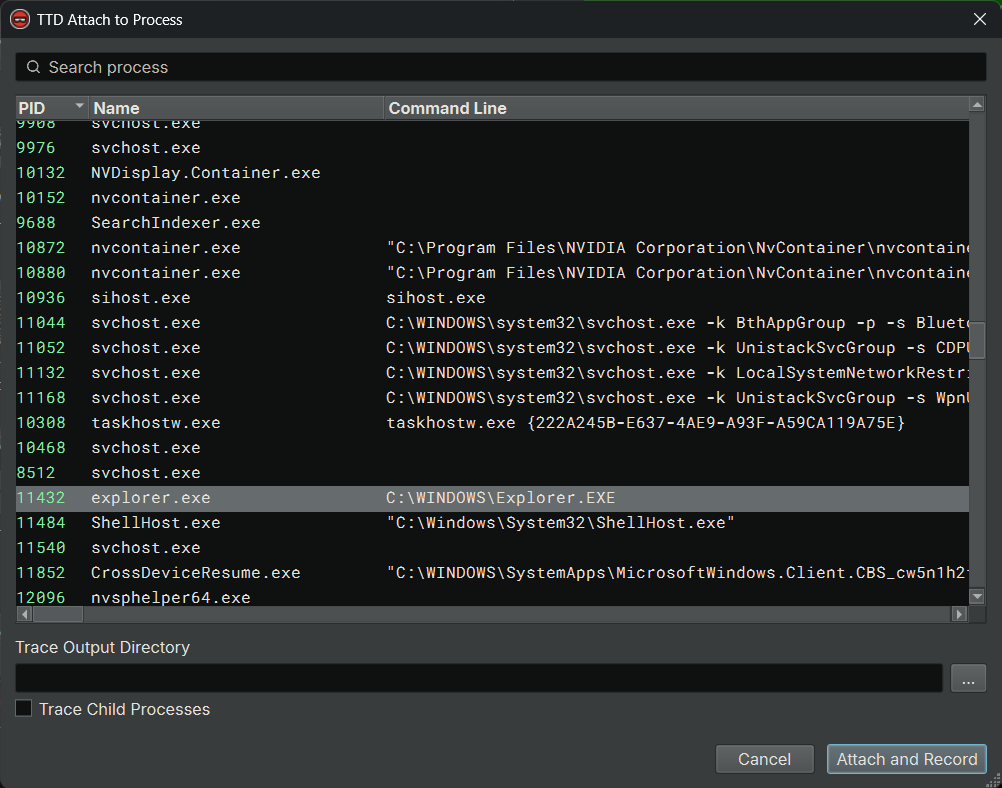
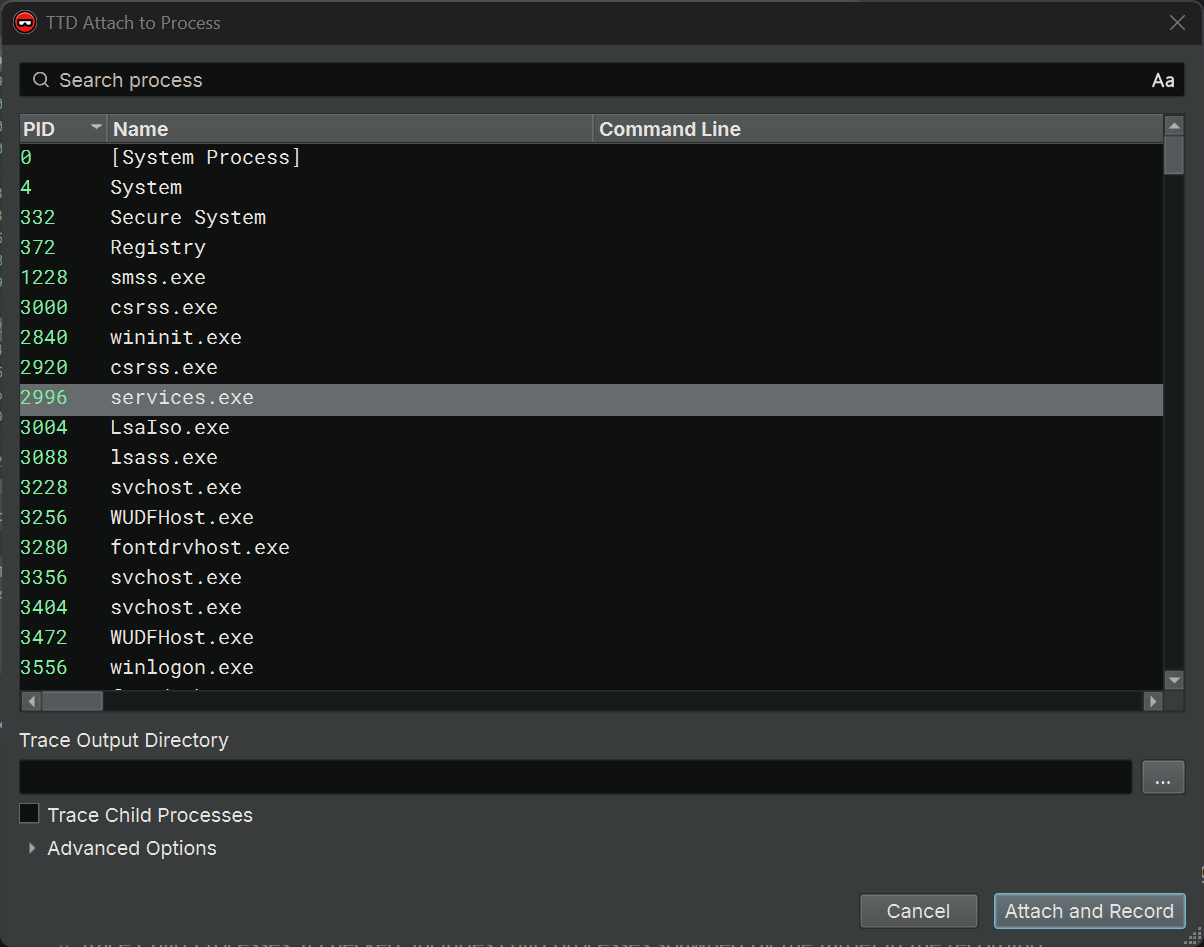
Updated docs images and added new image for the advanced options

diff --git a/docs/guide/dbgeng-ttd.md b/docs/guide/dbgeng-ttd.md
@@ -84,7 +84,7 @@ Once we have installed and configured WinDbg, we can start recording a TTD trace
 
 1. **Launch and record**: Start a new process and record it from within Binary Ninja
 2. **Attach and record**: Attach to a running process and record it from within Binary Ninja
-3. **Record in WinDbg**: Use WinDbg directly for more advanced recording options
+3. **Record in WinDbg**: Use WinDbg directly for recording options that Binary Ninja does not expose
 
 ### Record a TTD Trace in Binary Ninja
 
@@ -101,13 +101,7 @@ Once we have installed and configured WinDbg, we can start recording a TTD trace
     - Trace Output Directory: the directory to write the trace. By default, it is equal to the working directory, but can be changed if necessary
     - Start Application With Recording Off: if checked, starts the application with tracing disabled initially (useful for manual tracing control)
     - Trace Child Processes: if checked, includes child processes spawned by the main process in the trace recording
-    - Modules to Record: a comma-separated list of modules, e.g., `foo.exe, bar.dll`. Only code in these modules, and the code they call, is recorded. The rest of the process runs at full speed. Leave it empty to record the whole process
-    - Max Trace File Size (MB): the maximum size of the trace file. Leave it at "Default" to use TTD's default, which is 1024 GB, or 2048 MB when Ring Buffer is checked
-    - Ring Buffer: if checked, only the most recent part of the execution is kept, up to the max trace file size. In this mode, the max trace file size cannot be larger than 32768 MB
-    - Add Timestamp to Trace File Name: if checked, the trace file is named with a timestamp, e.g., `ping_2023-06-17_103116.run`, instead of a number like `ping01.run`
-    - Replay CPU Support: what the trace requires from the CPU that replays it. `Default` works on most machines. Use `MostConservative` if the trace will be replayed on a different CPU architecture, e.g., an Intel trace on an ARM64 machine. The other values can make the trace smaller and the recording faster, but the trace can then only be replayed on a CPU that is similar to the one it was recorded on (`MostAggressive`) or that supports AVX (`IntelAvxRequired`) or AVX2 (`IntelAvx2Required`)
-    - Virtual CPUs: the number of virtual CPUs TTD reserves in the target. Lowering it reduces the memory TTD uses in the target, but makes recording slower. Leave it at "Default" unless recording fails, e.g., because the target runs out of memory
-    - Additional TTD Arguments: other [TTD.exe options](https://learn.microsoft.com/en-us/windows-hardware/drivers/debuggercmds/time-travel-debugging-ttd-exe-command-line-util) to pass to TTD, e.g., `-noUI`. They are passed as-is
+    - Advanced Options: collapsed by default, and not needed for a basic recording. Expand it to choose which modules are recorded, limit the trace file size, and more. See [Advanced Recording Options](#advanced-recording-options)
 - Click "Record". A UAC dialog will pop up because the TTD recording requires Administrator privilege
 - Accept the elevation. The program will be launched and recorded. Once it exits, find the trace file in the trace output directory
 
@@ -130,20 +124,29 @@ To attach and record:
     - A list of running processes is displayed with their PID, name, and command line
     - Use the filter box to search for a specific process by name or PID
     - Select the process you want to attach to
-    - Trace Output Directory: the directory to write the trace (defaults to your Documents folder)
+    - Trace Output Directory: the directory to write the trace. By default, it is equal to the working directory in the debugger's launch settings, if one is set
     - Trace Child Processes: if checked, includes child processes spawned by the target in the recording
-    - Modules to Record: a comma-separated list of modules, e.g., `foo.exe, bar.dll`. Only code in these modules, and the code they call, is recorded. The rest of the process runs at full speed. Leave it empty to record the whole process
-    - Max Trace File Size (MB): the maximum size of the trace file. Leave it at "Default" to use TTD's default, which is 1024 GB, or 2048 MB when Ring Buffer is checked
-    - Ring Buffer: if checked, only the most recent part of the execution is kept, up to the max trace file size. In this mode, the max trace file size cannot be larger than 32768 MB
-    - Add Timestamp to Trace File Name: if checked, the trace file is named with a timestamp, e.g., `ping_2023-06-17_103116.run`, instead of a number like `ping01.run`
-    - Replay CPU Support: what the trace requires from the CPU that replays it. `Default` works on most machines. Use `MostConservative` if the trace will be replayed on a different CPU architecture, e.g., an Intel trace on an ARM64 machine. The other values can make the trace smaller and the recording faster, but the trace can then only be replayed on a CPU that is similar to the one it was recorded on (`MostAggressive`) or that supports AVX (`IntelAvxRequired`) or AVX2 (`IntelAvx2Required`)
-    - Virtual CPUs: the number of virtual CPUs TTD reserves in the target. Lowering it reduces the memory TTD uses in the target, but makes recording slower. Leave it at "Default" unless recording fails, e.g., because the target runs out of memory
-    - Additional TTD Arguments: other [TTD.exe options](https://learn.microsoft.com/en-us/windows-hardware/drivers/debuggercmds/time-travel-debugging-ttd-exe-command-line-util) to pass to TTD, e.g., `-noUI`. They are passed as-is
-- Click "Attach". A UAC dialog will pop up because TTD recording requires Administrator privilege
+    - Advanced Options: collapsed by default, and not needed for a basic recording. See [Advanced Recording Options](#advanced-recording-options)
+- Click "Attach and Record". A UAC dialog will pop up because TTD recording requires Administrator privilege
 - Accept the elevation. TTD will attach to the process and begin recording
 - Interact with the application as needed to capture the behavior you want to analyze
 - When done, terminate the process or use the TTD controls to stop recording
 - Find the trace file in the trace output directory
+
+### Advanced Recording Options
+
+Both the "TTD Record" and "TTD Attach to Process" dialogs have an "Advanced Options" group with the same options.
+It is collapsed by default, since none of these options are needed for a basic recording. Click "Advanced Options" to expand it:
+
+<img src="../../img/debugger/ttd_record_advanced_options.png" width="600px">
+
+- Modules to Record: a comma-separated list of modules, e.g., `foo.exe, bar.dll`. Only code in these modules, and the code they call, is recorded. The rest of the process runs at full speed. Leave it empty to record the whole process
+- Max Trace File Size (MB): the maximum size of the trace file. Leave it at "Default" to use TTD's default, which is 1024 GB, or 2048 MB when Ring Buffer is checked
+- Ring Buffer: if checked, only the most recent part of the execution is kept, up to the max trace file size. In this mode, the max trace file size cannot be larger than 32768 MB
+- Add Timestamp to Trace File Name: if checked, the trace file is named with a timestamp, e.g., `ping_2023-06-17_103116.run`, instead of a number like `ping01.run`
+- Replay CPU Support: what the trace requires from the CPU that replays it. `Default` works on most machines. Use `MostConservative` if the trace will be replayed on a different CPU architecture, e.g., an Intel trace on an ARM64 machine. The other values can make the trace smaller and the recording faster, but the trace can then only be replayed on a CPU that is similar to the one it was recorded on (`MostAggressive`) or that supports AVX (`IntelAvxRequired`) or AVX2 (`IntelAvx2Required`)
+- Virtual CPUs: the number of virtual CPUs TTD reserves in the target. Lowering it reduces the memory TTD uses in the target, but makes recording slower. Leave it at "Default" unless recording fails, e.g., because the target runs out of memory
+- Additional TTD Arguments: other [TTD.exe options](https://learn.microsoft.com/en-us/windows-hardware/drivers/debuggercmds/time-travel-debugging-ttd-exe-command-line-util) to pass to TTD, e.g., `-noUI`. They are passed as-is
 
 ### Record a TTD Trace in WinDbg
 
